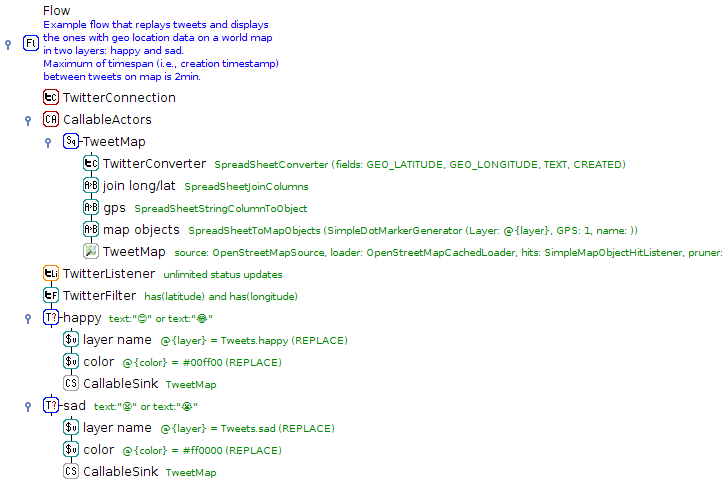
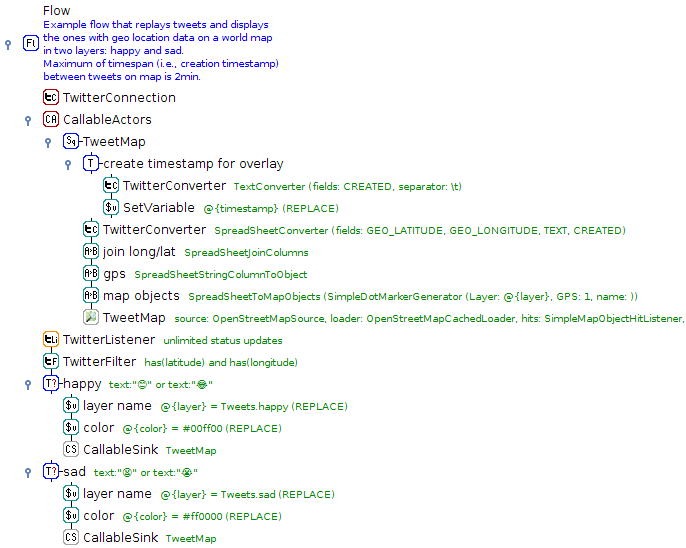
added section on visualization tweets using their geolocation information

Changed region(s): [[0.0, 0.0, 1.0, 1.0]]

diff --git a/application/application.tex b/application/application.tex
@@ -191,6 +191,31 @@ However, when we aggregate the counts over hours rather than minutes, it is poss
 \section{Geolocation}
 Twitter enables users to attach their geolocation\footnote{WikiPedia on geolocation: \url{https://en.wikipedia.org/wiki/Geolocation}{}} in the form of GPS coordinates to the tweets that they are sending. In the previous section, we discovered how to analyze tweets along the time axis. Using the geolocation information of tweets in conjunction with the OpenStreetMap\footnote{\url{http://www.openstreetmap.org/}{}} support available in ADAMS, we can visualize tweets on a map over time. The visualization can either be generated from a tweet archive (see Figure \ref{visualize_tweets-archive-flow}) or in real-time (see Figure \ref{visualize_tweets-realtime-flow}), by listening to the tweets as they occur. The archive approach is much faster, as ADAMS can usually process tweets faster than they become available through Twitter's ``garden hose''.
 
+The spreadsheet data structure in ADAMS allows you not only to represent primitives such as boolean, long, double, string and various date types, you can also store arbitrary objects. These objects get converted to and from strings using handlers that are registered for specific object types. GPS coordinates conversion is one application of this generic functionality. Displaying geolocation data therefore first converts the GPS coordinates obtained from the tweets into GPS objects before generating special map objects to be displayed on the map itself.
+
+The flow for displaying the geolocation tweets is relatively simple:
+\begin{itemize}
+  \item The tweets get generated once again using the \icon{TweetReplay}~TweetReplay source.
+  
+  \item Since we require geolocation information, we filter the tweets with a \icon{TwitterFilter}~TwitterFilter transformer, that ensures that latitude and longitude values are present.
+  
+  \item A \icon{ConditionalTee}~ConditionalTee with a TwitterFilterExpression is used to check for ``happy'' tweets. In case of such a tweet, a ``layer'' name for the map and the associated ``color'' of the marker on the map are set using \icon{SetVariable}~SetVariable actors. The tweet is then sent off to be plotted on the map using the \icon{CallableSink}~CallableSink actor, referencing the \icon{Sequence}~Sequence actor ``TweetMap''. This control actor encapsulates the following steps:
+  \begin{itemize}
+    \item In order to have a notion of the time passing when the tweet archive is processed, the \icon{OpenStreetMapViewer}~OpenStreetMapViewer sink ability to displayed overlays on the map can be used to display the current value of a variable. Therefore we set the variable \texttt{@\{timestamp\}} with the timestamp generated from the \texttt{CREATED} field of the tweet inside the \icon{Tee}~Tee actor ``create timestamp for overlay'' and use this variable in the overlay ``TextMapOverlay'' of the map set up.
+    
+    \item Before we can convert the GPS coordinates into objects, we need to combine the two column in the generated tweet spreadsheet into a single one using the SpreadSheetJoinColumns conversion in the \icon{Convert}~Convert transformer ``join long/lat''.
+    
+    \item The newly created GPS column can then be turned into GPS objects using the SpreadSheetStringColumnToObject conversion, \icon{Convert}~``gps'', with the handler for processing GPS coordinates.
+    
+    \item The final conversion, \icon{Convert}~``map objects'', then turns the GPS objects into marker objects suitable for the map (SpreadSheetToMapObjects).
+    
+    \item The map objects get channeled into the \icon{OpenStreetMapViewer} map sink itself. Since we do not want to accumulate all the tweets in the map, but rather want to provide a ``mood'' window, we define a pruning strategy in the map. Since our tweet archive covers only a short period, we use a simple pruning strategy that removes all  map objects that are at least two minutes older than the newest map object.
+  \end{itemize}
+
+  \item Processing of ``sad'' smileys works accordingly, but with different layer name and color.
+\end{itemize}
+In Figure \ref{visualize_tweets-archive-output} you can see the final display of tweets from the archive with the timestamp overlay of ``2014-02-12 14:52'' in the top-right corner. ``Happy'' tweets are colored in green and ``sad'' ones in red. Left-clicking with the mouse on one of the map markers brings up the associated information, in this case tweet status text, tweet date and GPS coordinates.
+
 \begin{figure}[htb]
   \centering
   \includegraphics[width=12.0cm]{images/visualize_tweets-archive-flow.png}
